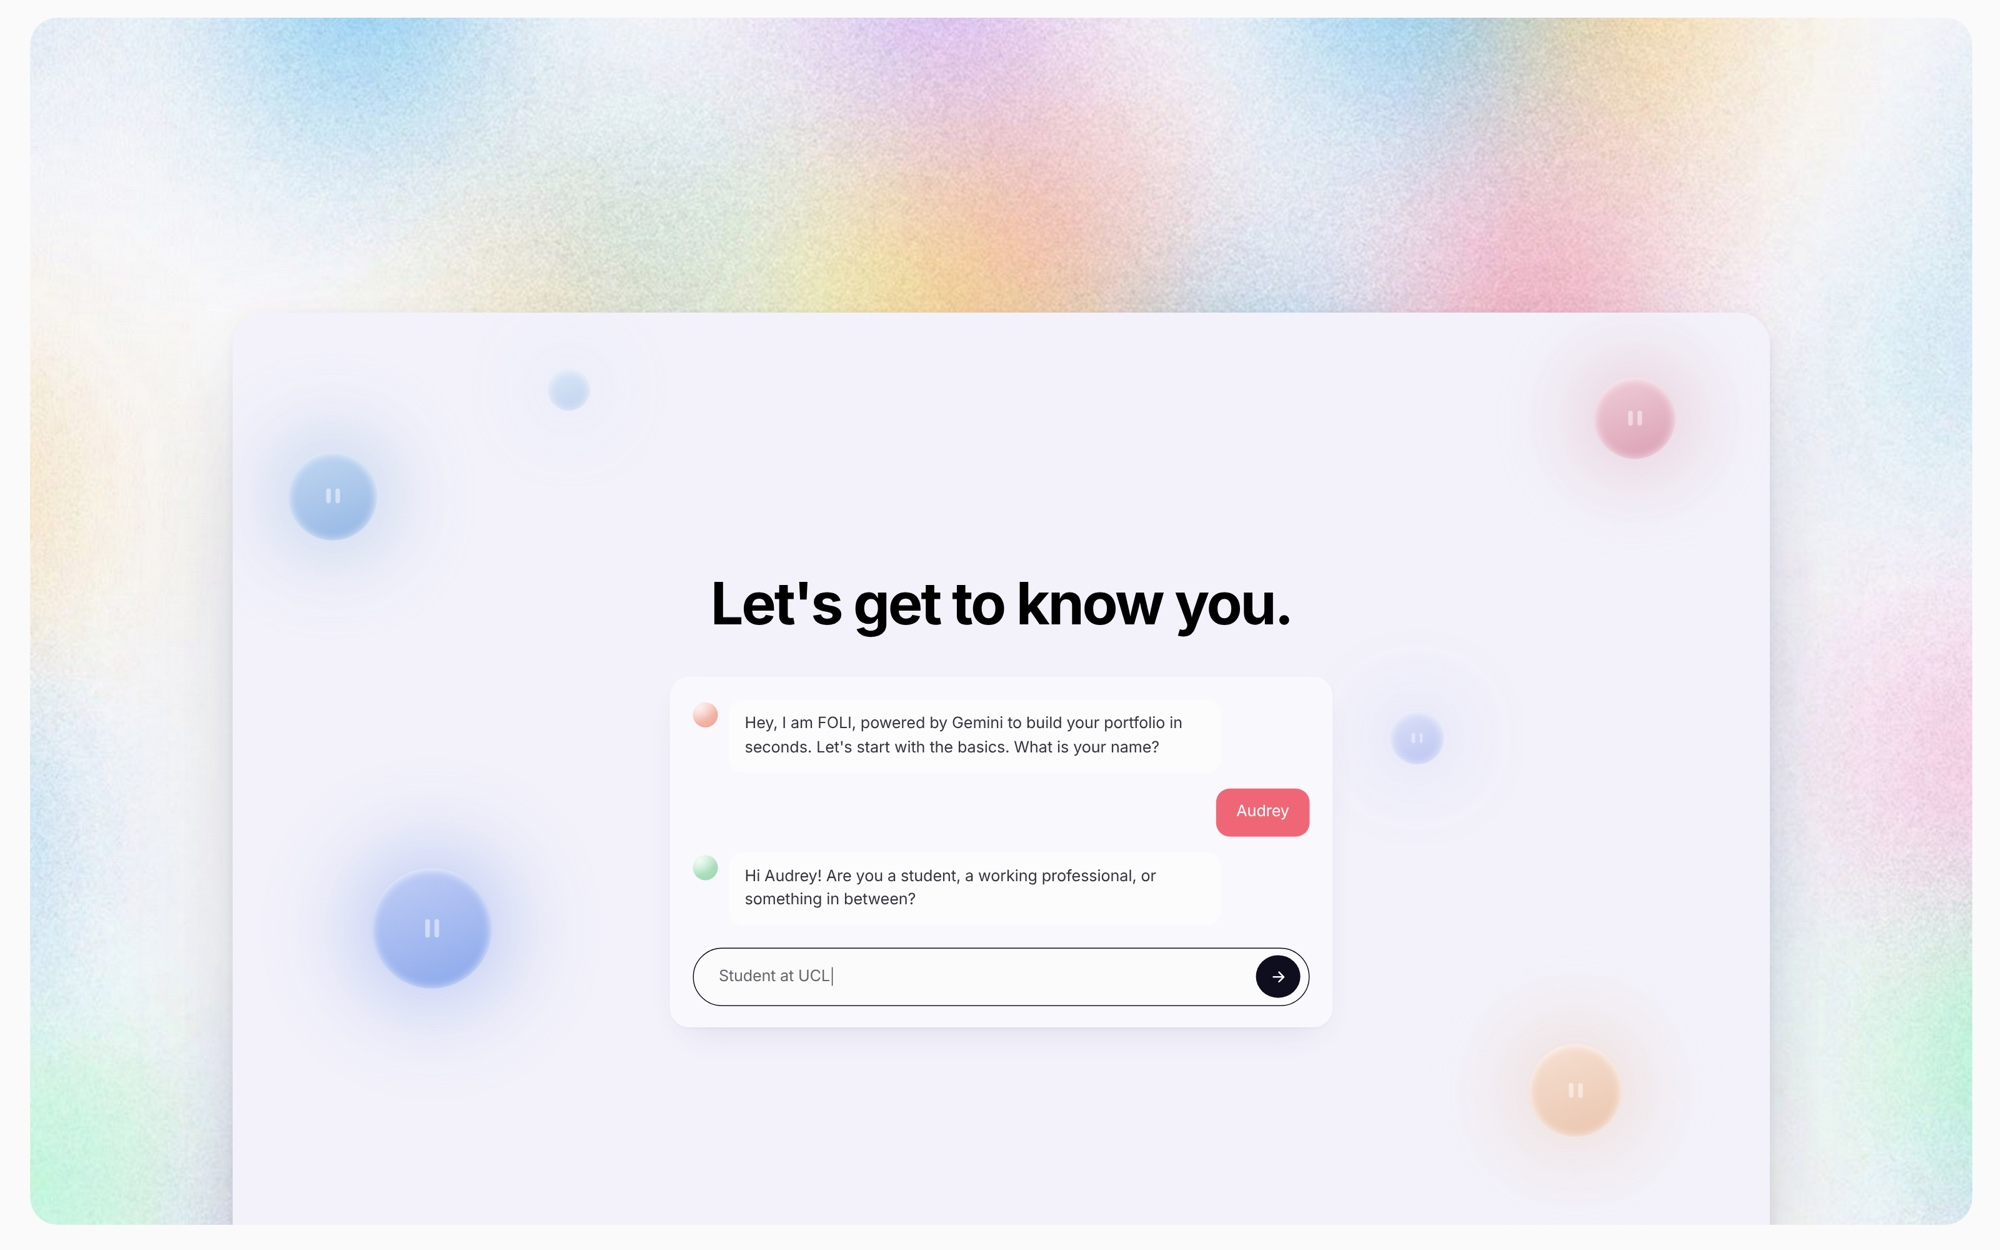
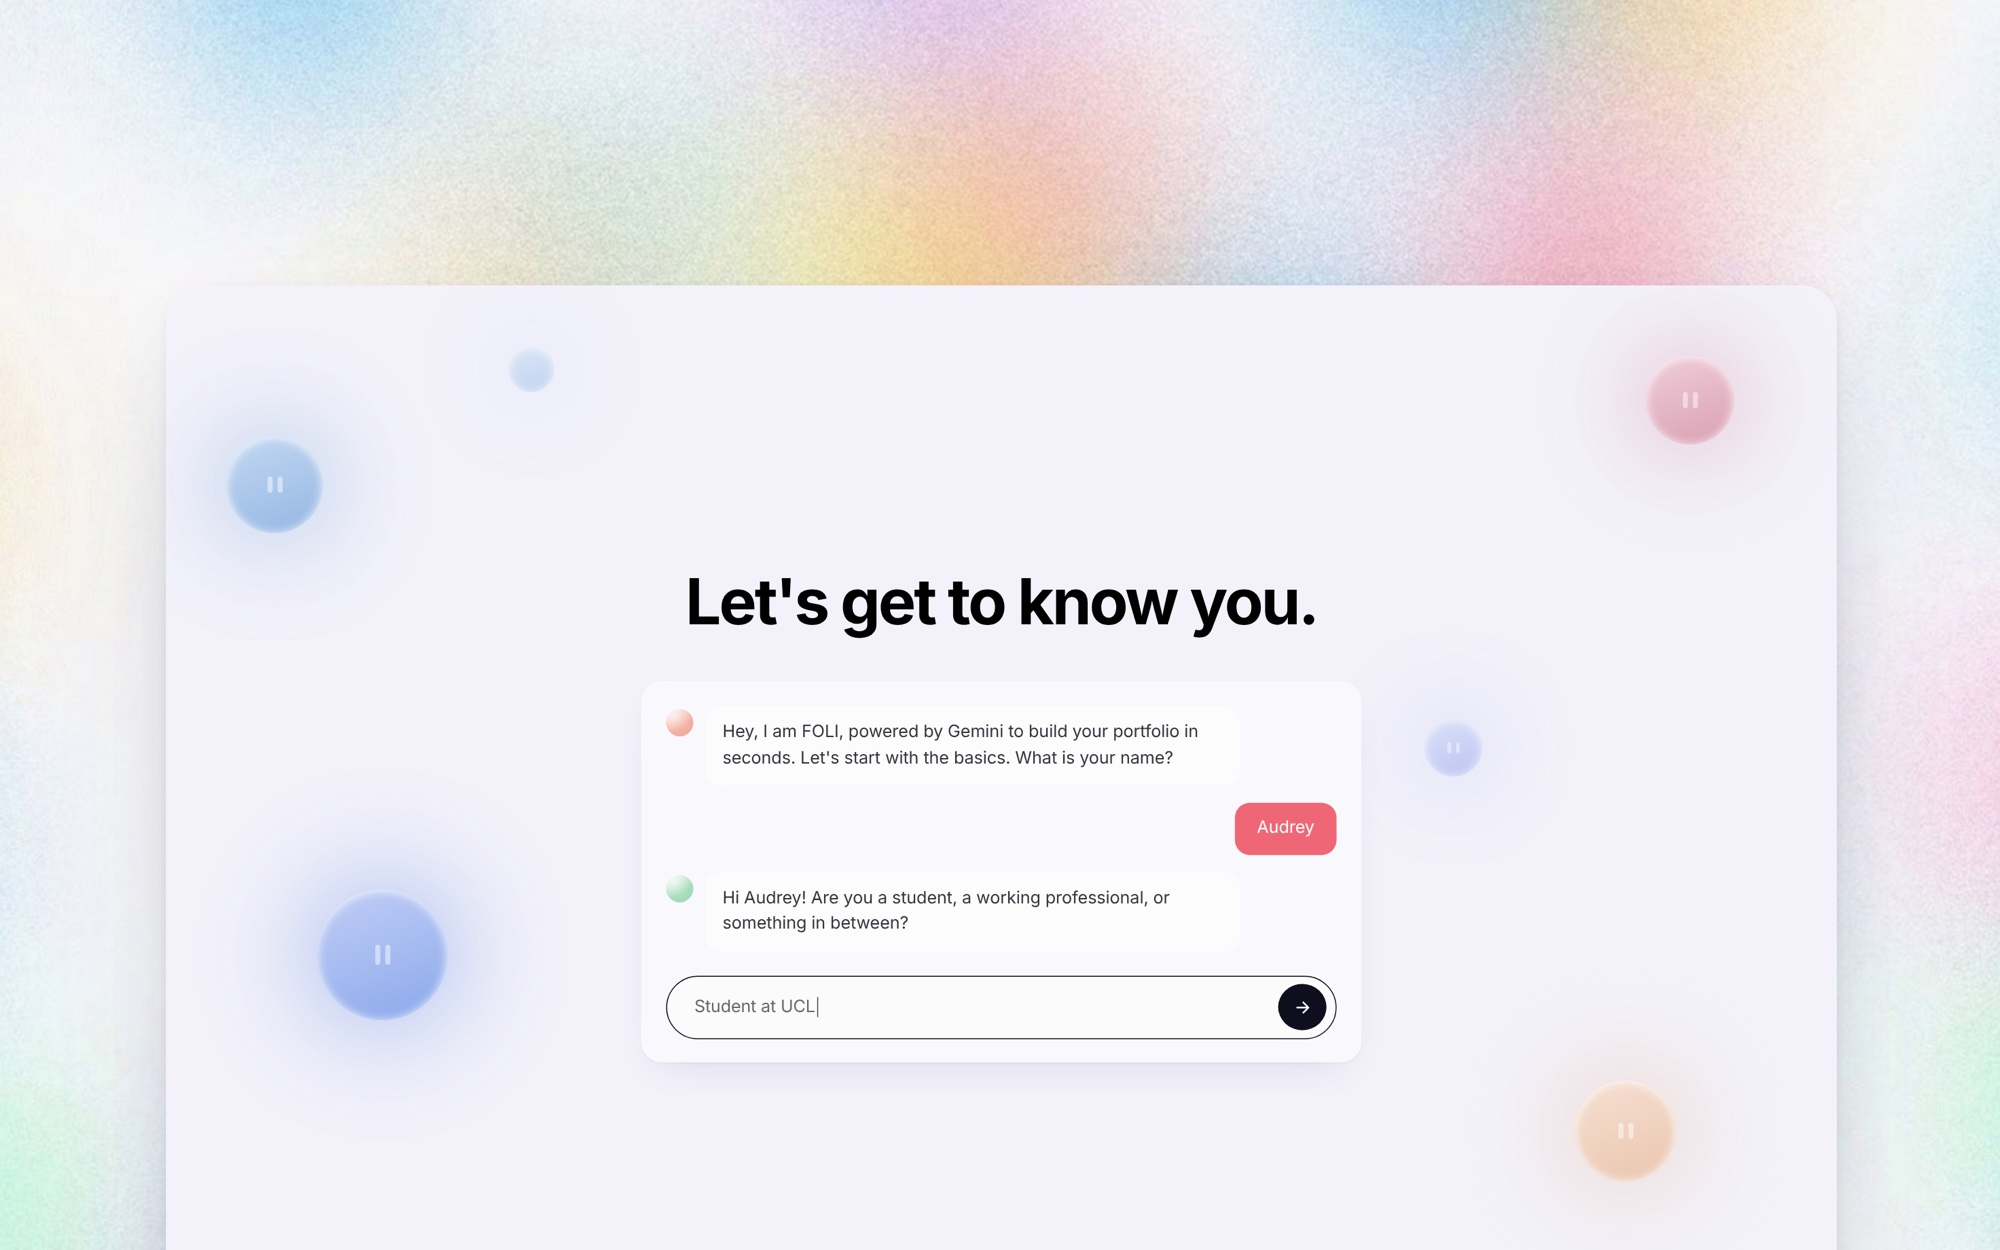
cards: ruocanpeng hover labels + fix covers
- Work-card labels now appear on hover only (removed the persistent
  caption), as pills bottom-left: the project name in its own accent
  colour (tldraw blue / gofresh green / folio purple) + two descriptors,
  plus a centered "see project" pill. Matches ruocanpeng's card.
- gofresh cover swapped to the clean 3-phone mockup (gofresh-mockup.png).
- folio cover cropped to remove the ugly white border (rainbow bleeds
  edge to edge now).

diff --git a/components/Works.tsx b/components/Works.tsx
@@ -5,7 +5,14 @@ import Link from 'next/link'
 import { projects as realProjects } from '@/lib/projects'
 import { useIsMobile } from '@/lib/useIsMobile'
 import { reveal, staggerContainer, once, stellaEase } from '@/lib/stellaMotion'
-import { FG, MUTED, HAIRLINE, CARD, FONT_BODY, FONT_MONO } from '@/lib/theme'
+import { FG, MUTED, HAIRLINE, CARD, FONT_BODY } from '@/lib/theme'
+
+// Per-project accent for the hover label (ruocanpeng: the name pill is coloured).
+const ACCENTS: Record<string, string> = {
+  'tldraw-flash': '#3f7ff0',
+  'gofresh': '#2f9e44',
+  'folio': '#8b6dff',
+}
 
 const displayProjects = realProjects
   .filter(p => p.slug !== 'batik')
@@ -46,6 +53,7 @@ function ProjectCard({ project }: { project: DisplayProject }) {
 
   const isPng = !!project.image && project.image.endsWith('.png')
   const baseScale = 1
+  const accent = ACCENTS[project.slug] ?? FG
 
   return (
     <motion.div variants={reveal} style={{ display: 'flex', flexDirection: 'column', gap: 12 }}>
@@ -85,63 +93,30 @@ function ProjectCard({ project }: { project: DisplayProject }) {
               }} />
           ) : null}
 
-          {/* hover scrim — keeps labels legible over any image */}
-          <div
-            aria-hidden
-            style={{
-              position: 'absolute', inset: 0, pointerEvents: 'none',
-              background: 'linear-gradient(to top, rgba(20,20,20,0.30), transparent 42%), linear-gradient(to bottom, rgba(20,20,20,0.16), transparent 34%)',
-              opacity: hovered ? 1 : 0, transition: 'opacity 0.3s',
-            }}
-          />
-
-          {/* see project — top-left, appears on hover */}
+          {/* see project — centered, appears on hover (ruocanpeng) */}
           <div
             style={{
-              position: 'absolute', top: 'clamp(12px,1.5vw,16px)', left: 'clamp(12px,1.5vw,16px)',
-              opacity: hovered ? 1 : 0, transform: hovered ? 'translateY(0)' : 'translateY(-4px)',
-              transition: 'opacity 0.28s, transform 0.28s', pointerEvents: 'none',
+              position: 'absolute', top: '50%', left: '50%',
+              transform: hovered ? 'translate(-50%, -50%)' : 'translate(-50%, calc(-50% + 5px))',
+              opacity: hovered ? 1 : 0, transition: 'opacity 0.28s ease, transform 0.28s ease', pointerEvents: 'none',
             }}
           >
-            <span
-              style={{
-                fontFamily: FONT_BODY, fontSize: 13.5, fontWeight: 500, color: FG,
-                background: CARD, padding: '8px 15px', borderRadius: 9999,
-                display: 'inline-flex', alignItems: 'center', gap: 7,
-                boxShadow: 'rgba(0,0,0,0.10) 0px 2px 8px',
-              }}
-            >
-              read case study <span aria-hidden>→</span>
+            <span style={{ fontFamily: FONT_BODY, fontSize: 16, fontWeight: 500, color: '#2a2a2a', background: '#fff', padding: '11px 22px', borderRadius: 10, whiteSpace: 'nowrap', boxShadow: '0 8px 24px rgba(20,20,30,0.12)' }}>
+              see project
             </span>
           </div>
 
-          {/* tags — bottom-left, appear on hover */}
-          <div style={{ position: 'absolute', left: 'clamp(12px,1.5vw,16px)', bottom: 'clamp(12px,1.5vw,16px)', display: 'flex', flexWrap: 'wrap', gap: 7, maxWidth: 'calc(100% - 32px)', opacity: hovered ? 1 : 0, transition: 'opacity 0.3s', pointerEvents: 'none' }}>
-            {project.tags.slice(0, 3).map((t) => (
-              <span
-                key={t}
-                style={{
-                  fontFamily: FONT_BODY, fontSize: 13, fontWeight: 500, color: FG,
-                  background: CARD,
-                  padding: '5px 12px', borderRadius: 9999,
-                  textTransform: 'lowercase', lineHeight: '18px',
-                  boxShadow: 'rgba(0,0,0,0.10) 0px 2px 8px',
-                }}
-              >
+          {/* labels — bottom-left on hover: name in the project's accent, then descriptors */}
+          <div style={{ position: 'absolute', left: 'clamp(14px,1.6vw,20px)', bottom: 'clamp(14px,1.6vw,20px)', display: 'flex', flexWrap: 'wrap', gap: 8, maxWidth: 'calc(100% - 40px)', opacity: hovered ? 1 : 0, transform: hovered ? 'translateY(0)' : 'translateY(6px)', transition: 'opacity 0.3s ease, transform 0.3s ease', pointerEvents: 'none' }}>
+            <span style={{ fontFamily: FONT_BODY, fontSize: 15, fontWeight: 500, color: accent, background: '#fff', padding: '8px 16px', borderRadius: 10, whiteSpace: 'nowrap', boxShadow: '0 6px 18px rgba(20,20,30,0.10)' }}>
+              {project.title}
+            </span>
+            {project.tags.slice(0, 2).map((t) => (
+              <span key={t} style={{ fontFamily: FONT_BODY, fontSize: 15, fontWeight: 500, color: '#555', background: '#fff', padding: '8px 16px', borderRadius: 10, whiteSpace: 'nowrap', boxShadow: '0 6px 18px rgba(20,20,30,0.10)' }}>
                 {t.toLowerCase()}
               </span>
             ))}
           </div>
-        </div>
-
-        {/* caption row (eemonroy style): title left, discipline · year right */}
-        <div style={{ display: 'flex', justifyContent: 'space-between', alignItems: 'baseline', gap: 20, marginTop: 15 }}>
-          <span style={{ fontFamily: FONT_BODY, fontSize: 16, fontWeight: 500, color: FG, letterSpacing: '-0.01em', lineHeight: 1.4 }}>
-            {project.title}
-          </span>
-          <span style={{ fontFamily: FONT_MONO, fontSize: 12, color: FG, letterSpacing: '0.06em', textTransform: 'uppercase', whiteSpace: 'nowrap', flexShrink: 0 }}>
-            {project.discipline} · {project.yearShort}
-          </span>
         </div>
       </Link>
     </motion.div>
